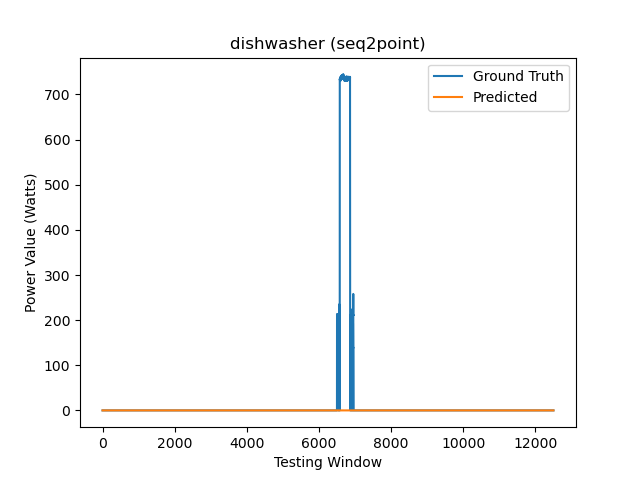
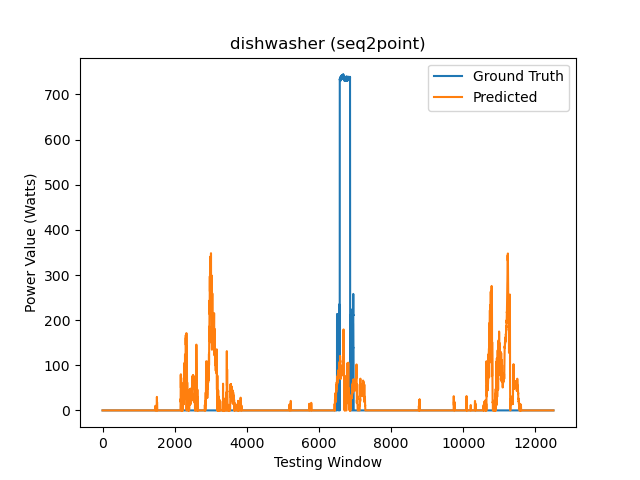
Fully trained dishwasher model

Changed region(s): [[0.6875, 0.5312, 0.8125, 0.875], [0.2812, 0.5312, 0.375, 0.875], [0.5, 0.6875, 0.5938, 0.875]]

diff --git a/seq2point_test.py b/seq2point_test.py
@@ -310,8 +310,8 @@ class Tester():
 
         #thresholdPredictions = 900 #microwave
         #thresholdPredictions = 60 #fridge
-        #thresholdPredictions = 10 #dishwasher - 350
-        thresholdPredictions = 10 #washing machine - 2750
+        thresholdPredictions = 10 #dishwasher - 350
+        #thresholdPredictions = 10 #washing machine - 2750
         #comparable_metric_string = "Own defined metrics (after post-processing) - MAE: ", str(MAE/10), " SAE: ", str(SAE/10), " F1: ", str(F1/10)
         comparable_metric_string = "Own defined metrics (before post-processing) - MAE: ", str(self.mae(testing_history, test_target)), " SAE: ", str(self.sae(testing_history, test_target, 1200)), " F1: ", str(self.f1(testing_history, test_target, thresholdPredictions))
         logging.info(comparable_metric_string)
@@ -385,7 +385,7 @@ class Tester():
         plt.xlabel("Testing Window")
         plt.legend()"""
 
-        """#dishwasher
+        #dishwasher
         plt.figure(2)
         #plt.plot(test_agg[self.__window_offset+2500: -self.__window_offset+1500], label="Aggregate")
         plt.plot(test_target[:12500], label="Ground Truth")
@@ -393,9 +393,9 @@ class Tester():
         plt.title(self.__appliance + " " + self.__network_type + "(" + self.__algorithm + ")")
         plt.ylabel("Power Value (Watts)")
         plt.xlabel("Testing Window")
-        plt.legend()"""
+        plt.legend()
 
-        #washing machine
+        """#washing machine
         plt.figure(2)
         #plt.plot(test_agg[self.__window_offset+2500: -self.__window_offset+1500], label="Aggregate")
         plt.plot(test_target[18000:26000], label="Ground Truth")
@@ -403,7 +403,7 @@ class Tester():
         plt.title(self.__appliance + " " + self.__network_type + "(" + self.__algorithm + ")")
         plt.ylabel("Power Value (Watts)")
         plt.xlabel("Testing Window")
-        plt.legend()
+        plt.legend()"""
 
         """plt.figure(1)
         plt.plot(test_agg[self.__window_offset: -self.__window_offset], label="Aggregate")
